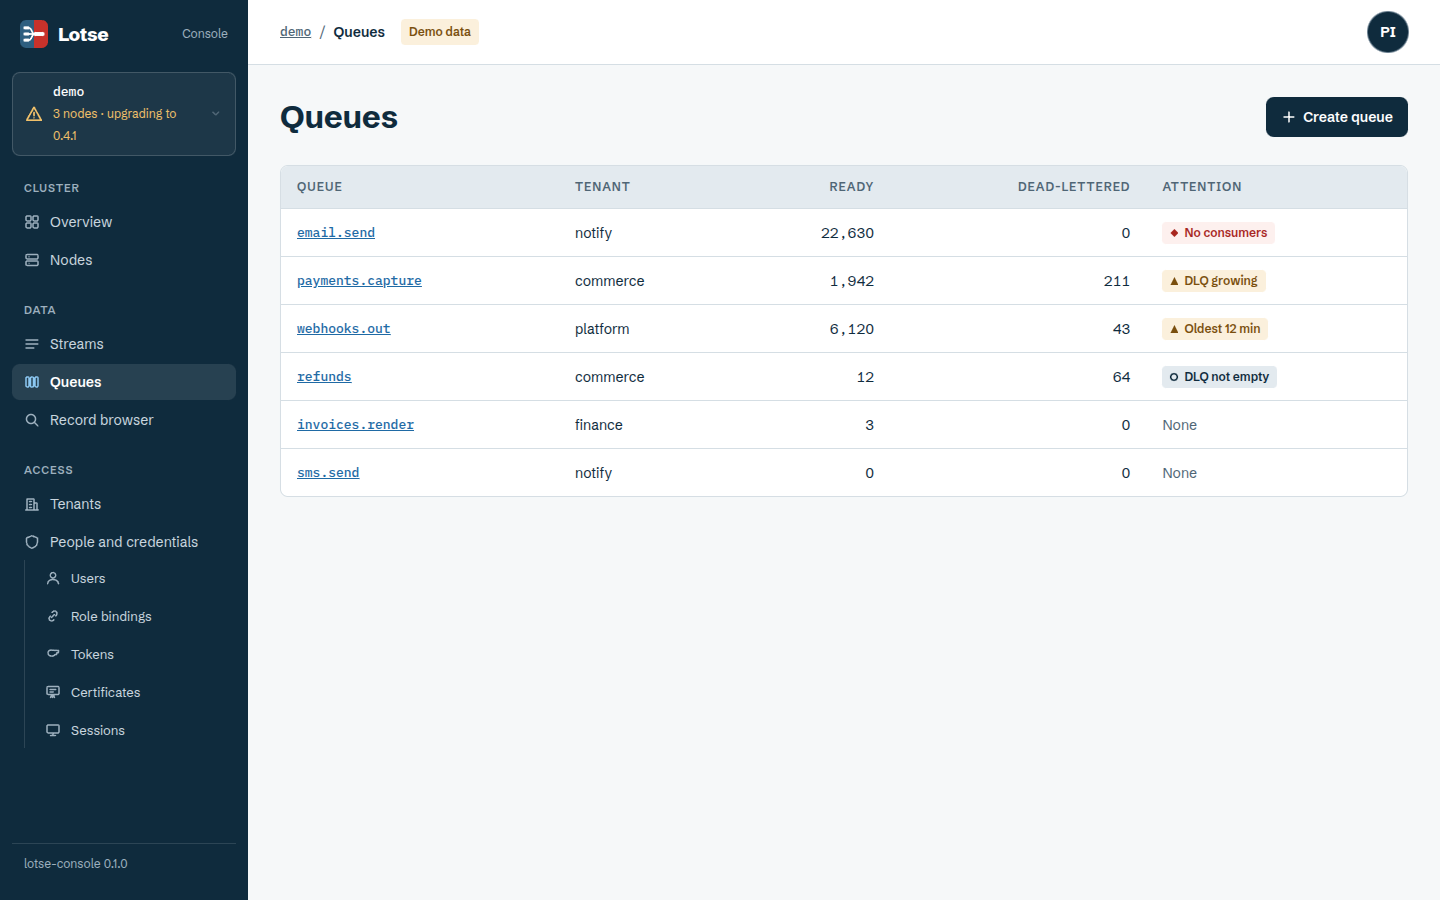
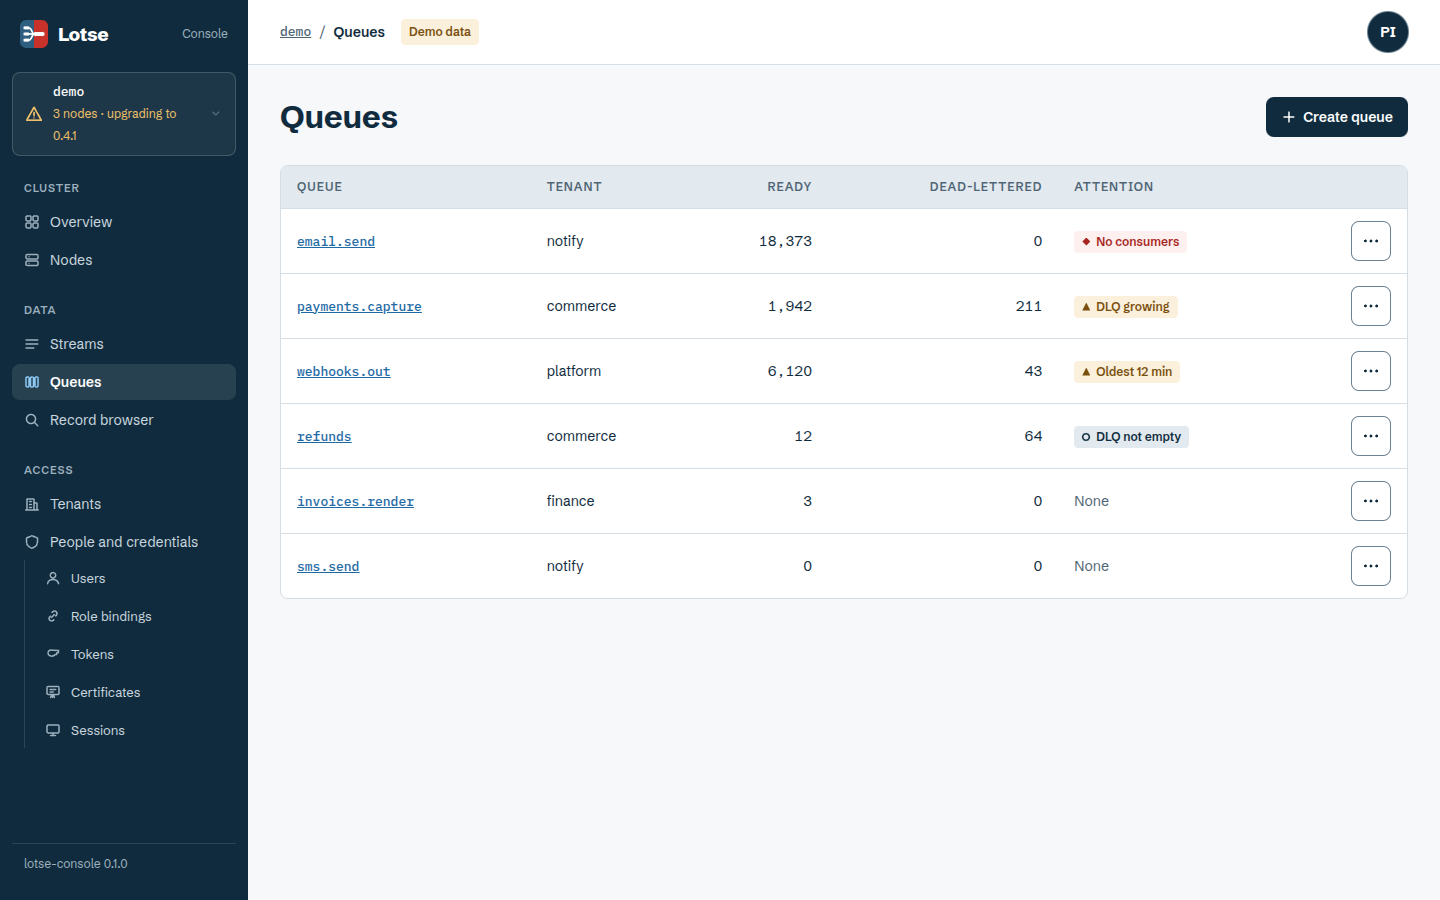
Add More to console cards, row menus to the lists, and draft 0.1.1 notes
Cards show a row's name and two more cells and keep the rest behind a More
button, so a phone sees what matters first and loses nothing; cells with
something to press always stay. Streams and queues get a row menu (open,
read records; open, purge with its typed-name confirmation).

docs/releases/0.1.1.md describes the console release these changes make.
The version itself is not raised here: Cargo.toml, Cargo.lock and the chart
change together with the tag (ADR 0138). AGENTS.md names how the console's
look and tables are built.

diff --git a/console/web/src/pages/Queues.tsx b/console/web/src/pages/Queues.tsx
@@ -1,9 +1,31 @@
-import { Link, useParams } from 'react-router-dom';
+import { useRef, useState } from 'react';
+import { Link, useNavigate, useParams } from 'react-router-dom';
 import { useQueue, useQueues } from '../api/queries';
-import { MoveLeaderButton, PlaceButton, PurgeButton, ReplicationButton, RequeueButton } from '../components/Actions';
+import { MoveLeaderButton, PlaceButton, PurgeButton, PurgeDialog, ReplicationButton, RequeueButton } from '../components/Actions';
+import { RowMenu } from '../components/RowMenu';
 import { CreateQueueDialog } from '../components/CreateQueueDialog';
 import { Bar, Chip, Failed, Loading, Stats, TableWrap } from '../components/ui';
 import { NONE, bytes, clock, count, duration } from '../format';
+
+/** The "…" menu of a queue row: open it, or purge it (which asks for its name first). */
+function QueueRowMenu({ cluster, name, ready }: { cluster: string; name: string; ready: number }) {
+  const navigate = useNavigate();
+  const menu = useRef<HTMLButtonElement>(null);
+  const [asking, setAsking] = useState(false);
+  return (
+    <>
+      <RowMenu
+        triggerRef={menu}
+        label={`Actions for ${name}`}
+        actions={[
+          { label: 'Open queue', onSelect: () => navigate(`/clusters/${encodeURIComponent(cluster)}/queues/${encodeURIComponent(name)}`) },
+          { label: 'Purge queue', danger: true, onSelect: () => setAsking(true) },
+        ]}
+      />
+      <PurgeDialog cluster={cluster} queue={name} ready={ready} open={asking} onOpenChange={setAsking} returnFocus={menu} />
+    </>
+  );
+}
 
 export function QueueList() {
   const { cluster = '' } = useParams();
@@ -31,6 +53,7 @@ export function QueueList() {
                 <th scope="col" className="r">Ready</th>
                 <th scope="col" className="r">Dead-lettered</th>
                 <th scope="col">Attention</th>
+                <th scope="col"><span className="sr-only">Actions</span></th>
               </tr>
             </thead>
             <tbody>
@@ -41,6 +64,7 @@ export function QueueList() {
                   <td className="r">{count(r.ready)}</td>
                   <td className="r">{count(r.dead_lettered)}</td>
                   <td>{r.attention ? <Chip chip={r.attention} /> : <span className="muted">None</span>}</td>
+                  <td className="r"><QueueRowMenu cluster={cluster} name={r.name} ready={r.ready} /></td>
                 </tr>
               ))}
             </tbody>

diff --git a/console/web/src/components/Actions.tsx b/console/web/src/components/Actions.tsx
@@ -1,4 +1,4 @@
-import { useState } from 'react';
+import { useState, type ReactNode, type RefObject } from 'react';
 import * as AlertDialog from '@radix-ui/react-alert-dialog';
 import { ApiError } from '../api/client';
 import { useMoveLeader, useNodes, usePlacePartition, usePurgeQueue, useRequeue, useSetReplication } from '../api/queries';
@@ -7,13 +7,32 @@ import { useToast } from './toast';
 
 const narrow = { width: 'min(480px, calc(100vw - 32px))' };
 
-/** Purge: destructive, so the queue's name is typed again before it can run (ADR 0064). */
-export function PurgeButton({ cluster, queue, ready }: { cluster: string; queue: string; ready: number }) {
+/** The purge confirmation, opened by its caller (a row menu) or by PurgeButton: the queue's name is typed again (ADR 0064). */
+export function PurgeDialog({
+  cluster,
+  queue,
+  ready,
+  open,
+  onOpenChange,
+  trigger,
+  returnFocus,
+}: {
+  cluster: string;
+  queue: string;
+  ready: number;
+  open?: boolean;
+  onOpenChange?: (open: boolean) => void;
+  trigger?: ReactNode;
+  returnFocus?: RefObject<HTMLElement | null>;
+}) {
   const purge = usePurgeQueue(cluster, queue);
   const toast = useToast();
   return (
     <ConfirmDialog
-      trigger={<AlertDialog.Trigger className="btn">Purge</AlertDialog.Trigger>}
+      open={open}
+      onOpenChange={onOpenChange}
+      trigger={trigger}
+      returnFocus={returnFocus}
       title={`Purge ${queue}?`}
       body={`Deletes the ${ready.toLocaleString('en-US')} messages that are ready now. Messages that consumers hold are not deleted, and messages published meanwhile stay. This cannot be undone.`}
       name={queue}
@@ -29,6 +48,11 @@ export function PurgeButton({ cluster, queue, ready }: { cluster: string; queue:
       }
     />
   );
+}
+
+/** Purge, with its own button (on the queue's page). */
+export function PurgeButton({ cluster, queue, ready }: { cluster: string; queue: string; ready: number }) {
+  return <PurgeDialog cluster={cluster} queue={queue} ready={ready} trigger={<AlertDialog.Trigger className="btn">Purge</AlertDialog.Trigger>} />;
 }
 
 /** Requeue: moves a dead-letter queue's messages back to the queues they came from, once each. */

diff --git a/console/web/src/components/ui.test.tsx b/console/web/src/components/ui.test.tsx
@@ -35,7 +35,57 @@ function phone(matches: boolean) {
   vi.stubGlobal('matchMedia', () => ({ matches, addEventListener: () => undefined, removeEventListener: () => undefined }));
 }
 
+const wide = (
+  <TableWrap label="Queues">
+    <table>
+      <thead>
+        <tr>
+          <th scope="col">Queue</th>
+          <th scope="col">Tenant</th>
+          <th scope="col">Ready</th>
+          <th scope="col">Dead letters</th>
+          <th scope="col">Why</th>
+          <th scope="col">
+            <span className="sr-only">Actions</span>
+          </th>
+        </tr>
+      </thead>
+      <tbody>
+        <tr>
+          <th scope="row">orders</th>
+          <td>commerce</td>
+          <td>12</td>
+          <td>0</td>
+          <td>None</td>
+          <td>
+            <button type="button">Actions for orders</button>
+          </td>
+        </tr>
+      </tbody>
+    </table>
+  </TableWrap>
+);
+
 describe('TableWrap', () => {
+  it('puts the cells after the third behind More on a phone, and keeps what can be pressed', async () => {
+    phone(true);
+    const { container } = render(wide);
+    const row = container.querySelector('tbody tr')!;
+    const extra = Array.from(row.children).filter((c) => c.hasAttribute('data-extra')).map((c) => c.getAttribute('data-label'));
+    expect(extra).toEqual(['Dead letters', 'Why']);
+    const more = screen.getByRole('button', { name: 'More' });
+    expect(more.getAttribute('aria-expanded')).toBe('false');
+    more.click();
+    expect(row.hasAttribute('data-open')).toBe(true);
+    expect(screen.getByRole('button', { name: 'Fewer' }).getAttribute('aria-expanded')).toBe('true');
+  });
+
+  it('has no More on a wide screen', () => {
+    phone(false);
+    const { container } = render(wide);
+    expect(container.querySelector('.morec')).toBeNull();
+  });
+
   it('turns rows into cards on a phone, naming each cell by its column and keeping the table roles', () => {
     phone(true);
     const { container } = render(table);

diff --git a/console/web/src/pages/Streams.tsx b/console/web/src/pages/Streams.tsx
@@ -1,13 +1,15 @@
 import * as Tabs from '@radix-ui/react-tabs';
-import { Link, useParams } from 'react-router-dom';
+import { Link, useNavigate, useParams } from 'react-router-dom';
 import type { S } from '../api/client';
 import { useStream, useStreams } from '../api/queries';
 import { MoveLeaderButton, PlaceButton, ReplicationButton } from '../components/Actions';
+import { RowMenu } from '../components/RowMenu';
 import { Chip, Failed, Hint, Loading, Sparkline, Stats, TableWrap } from '../components/ui';
 import { NONE, bytes, count, counted, duration, rate } from '../format';
 
 export function StreamList() {
   const { cluster = '' } = useParams();
+  const navigate = useNavigate();
   const q = useStreams(cluster);
   const base = `/clusters/${encodeURIComponent(cluster)}`;
   return (
@@ -29,6 +31,7 @@ export function StreamList() {
                 <th scope="col" className="r">Partitions</th>
                 <th scope="col" className="r">In</th>
                 <th scope="col" className="r">Stored</th>
+                <th scope="col"><span className="sr-only">Actions</span></th>
               </tr>
             </thead>
             <tbody>
@@ -39,6 +42,15 @@ export function StreamList() {
                   <td className="r">{s.partitions}</td>
                   <td className="r">{rate(s.in_bytes_per_sec)}</td>
                   <td className="r">{bytes(s.stored_bytes)}</td>
+                  <td className="r">
+                    <RowMenu
+                      label={`Actions for ${s.name}`}
+                      actions={[
+                        { label: 'Open stream', onSelect: () => navigate(`${base}/streams/${encodeURIComponent(s.name)}`) },
+                        { label: 'Read records', onSelect: () => navigate(`${base}/messages?stream=${encodeURIComponent(s.name)}`) },
+                      ]}
+                    />
+                  </td>
                 </tr>
               ))}
             </tbody>

diff --git a/console/web/src/components/ui.tsx b/console/web/src/components/ui.tsx
@@ -282,7 +282,34 @@ export function TableWrap({ label, style, children }: { label?: string; style?: 
           }
         }
         table.querySelectorAll('tbody tr').forEach((tr) => {
-          Array.from(tr.children).forEach((c, i) => c.setAttribute('data-label', heads[i] ?? ''));
+          const cells = Array.from(tr.children).filter((c) => !c.classList.contains('morec'));
+          cells.forEach((c, i) => c.setAttribute('data-label', heads[i] ?? ''));
+          // A card shows its name and two more cells; the rest waits behind "More". Cells with something to press stay.
+          const extra = cells.filter((c, i) => i >= 3 && !c.querySelector('button, a, input, select'));
+          cells.forEach((c) => (extra.includes(c) ? c.setAttribute('data-extra', '') : c.removeAttribute('data-extra')));
+          let more = tr.querySelector<HTMLElement>(':scope > .morec');
+          if (cards && extra.length > 0 && cells.length > 1 && cells[0]?.tagName !== 'TD') {
+            if (!more) {
+              more = document.createElement('td');
+              more.className = 'morec';
+              more.setAttribute('role', 'cell');
+              const b = document.createElement('button');
+              b.type = 'button';
+              b.className = 'btn small';
+              b.setAttribute('aria-expanded', 'false');
+              b.textContent = 'More';
+              b.addEventListener('click', () => {
+                const open = tr.toggleAttribute('data-open');
+                b.setAttribute('aria-expanded', String(open));
+                b.textContent = open ? 'Fewer' : 'More';
+              });
+              more.append(b);
+              tr.append(more);
+            }
+          } else if (more) {
+            more.remove();
+            tr.removeAttribute('data-open');
+          }
         });
       }
       const scrolls = !(mq?.matches ?? false) && el.scrollWidth > el.clientWidth + 1;

diff --git a/console/web/src/styles.css b/console/web/src/styles.css
@@ -396,6 +396,9 @@ pre.value { margin: 0; padding: 14px 16px; overflow-x: auto; border-radius: var(
   table.cards tbody tr > :first-child { justify-content: flex-start; font-weight: 600; text-align: left; box-shadow: none; }
   table.cards tbody tr > *::before { content: attr(data-label); flex: 0 0 auto; color: var(--ink-muted); font-size: 12px; font-weight: 600; letter-spacing: 0.08em; text-transform: uppercase; text-align: left; }
   table.cards tbody tr > :first-child::before, table.cards tbody tr > [data-label='']::before { display: none; }
+  table.cards tbody tr:not([data-open]) > [data-extra] { display: none; }
+  table.cards tbody tr > .morec { justify-content: flex-start; padding-top: 8px; }
+  table.cards tbody tr > .morec::before { display: none; }
   .app { grid-template-columns: minmax(0, 1fr); }
   .demo-pill, .live { display: none; }
   .demo-strip { display: block; padding: 6px 16px; background: var(--warn-bg); color: var(--warn-text); font-size: 13px; font-weight: 600; }

diff --git a/AGENTS.md b/AGENTS.md
@@ -27,7 +27,7 @@ A message broker in Rust: RabbitMQ-style reliable queues and Kafka-style persist
 | `crates/lotse-console` | Management console backend (axum), serves `console/web`; `cluster/native.rs` a real cluster through `lotse-client`, `cluster/demo.rs` sample data; `auth.rs` sign-in (OIDC, dev mode, the sampler's client credentials), users, role bindings and session revocation as the signed-in user (`api.rs`, `cluster/*`; the browser derives the SCRAM credential in `console/web/src/scramCredential.ts`, [ADR 0089](docs/adr/0089-console-users-and-access.md)), `auth/sealed.rs` sessions sealed into the cookie, `metrics.rs` chart history per resource; `config.rs` the console's file (`[https]`: plain HTTP only on loopback, ADR 0137); `examples/local_cluster.rs` three nodes on localhost with the console; `tests/native.rs` the console against real nodes, `tests/https.rs` the executable serving HTTPS and refusing plain HTTP off loopback, `tests/sign_in.rs` signing in against a node that requires authentication, `tests/tokens.rs` access tokens made, listed and revoked as the signed-in user (ADR 0133; the text only in the answer that creates one) |
 | `packaging/` | `release.sh` (the reproducible release of `lotse` and `lotse-console`: static binaries, tarballs, `.deb`, `.rpm`, `.apk`, `BUILDINFO`, `SHA256SUMS`; `--verify` checks a published one), `release.env` (the pinned tools, Node.js for the console's web app), `tools.sh` (installs them), `tarball.py`, `nfpm.yaml` and `nfpm-console.yaml` (the packages), `image.sh`, `Dockerfile.prebuilt` and `Dockerfile.console.prebuilt` (the reproducible release images), `Dockerfile` and `Dockerfile.console` (static builds on distroless from source), `lotse-console.toml.example` (the packaged console's config, ADR 0137), `systemd/`, `openrc/`, `sysvinit/` (init scripts), `deb/`, `rpm/`, `apk/` (package scripts), `cluster.toml.example`, `tarball/INSTALL.md`, `restart-on-upgrade.sh` (restarts a machine's nodes after an upgrade, each with the restart turn, ADR 0127), `helm/lotse` (the Helm chart, [ADR 0128](docs/adr/0128-a-helm-chart-whose-pods-take-the-restart-turn.md)), `ci/` (installing and starting the packages in containers, `console-*.sh` the console's, `helm.sh` the chart with the console on kind, [ADR 0126](docs/adr/0126-reproducible-releases-built-by-one-script-for-every-init-system.md)); `.github/workflows/release.yml` builds releases on `v*` tags |
 | `sdk/` | Client SDKs ([ADR 0056](docs/adr/0056-client-sdks-for-the-jvm.md)): `PROTOCOL.md` the protocol for implementers, `conformance/` golden vectors written by `crates/lotse-proto/examples/vectors.rs` (never edit by hand: `make sdk-vectors`), `java/` the Java 17 client (Gradle, no runtime dependencies but the optional codecs; `dev.lotse.proto`, `record`, `net`, `auth` and `client`: streams, queues, publishing, transactions, consumer groups and admin), `kotlin/` the Kotlin layer on it (`dev.lotse.kotlin`: `suspend` on `Dispatchers.IO`, flows, `transaction { }`; [ADR 0080](docs/adr/0080-kotlin-layer-on-dispatchers-io.md)), `csharp/` the C# client (.NET 10, `Lotse.sln`; `Lotse.Proto`, `Lotse.Record`, `Lotse.Net`, `Lotse.Auth` and `Lotse.Client`, the optional `Lotse.Client.Codecs` package; [ADR 0083](docs/adr/0083-client-sdks-for-csharp-and-nodejs.md), [ADR 0084](docs/adr/0084-codecs-in-the-csharp-sdk.md)), `node/` the Node.js client (TypeScript, Node.js 20+, no runtime dependencies; `src/proto`, `record`, `net`, `auth` and `client`; [ADR 0083](docs/adr/0083-client-sdks-for-csharp-and-nodejs.md), [ADR 0085](docs/adr/0085-codecs-in-the-nodejs-sdk.md)) |
-| `console/web` | Console frontend: React 19, TypeScript, Radix primitives, TanStack Query, generated OpenAPI client |
+| `console/web` | Console frontend: React 19, TypeScript, Radix primitives, TanStack Query, generated OpenAPI client; its look and behaviour follow the mockups in `docs/console/mockups/v2/` and [ADR 0140](docs/adr/0140-the-console-has-a-navy-primary-action-and-red-only-for-danger.md): navy primary, red only for danger, one `ConfirmDialog` for anything destructive, `TableWrap` for every table (cards on a phone), nested People and credentials pages |
 | `docs/` | Design document, ADRs, architecture, brand, console screenshots and mockups; `status.md` (status and known gaps), `running.md` (running a cluster in short), `crates.md`, `testing.md` (the simulations and what they catch), `console/README.md` (screenshots, running the console, frontend work); `releases/<version>.md` each release's notes, which the release workflow requires and puts at the top of the GitHub release ([ADR 0138](docs/adr/0138-every-release-has-its-notes-and-version-tagged-images.md)); `docs/guide/` the setup, administration, development and use guides (mdBook, published on GitHub Pages by `.github/workflows/docs.yml`; [ADR 0081](docs/adr/0081-user-guides-with-mdbook-on-github-pages.md)) |
 | `agents/` | Tool-neutral descriptions of the project's coding agents |
 

diff --git a/docs/releases/0.1.1.md b/docs/releases/0.1.1.md
@@ -1,0 +1,28 @@
+# Lotse 0.1.1
+
+A release of the management console and nothing else: the brokers, their formats and the cluster version are as in 0.1.0, so a cluster upgrades by replacing `lotse-console` alone.
+
+## What changed
+
+- **A calmer, more accessible console.** The primary action is navy and red means danger or an error; the focus ring is never red; inputs, selects and switches have borders that meet 3:1 in light and dark ([ADR 0140](https://github.com/pierrejochem/lotse/blob/main/docs/adr/0140-the-console-has-a-navy-primary-action-and-red-only-for-danger.md)).
+- **A shell that fits every width.** A sidebar on wide screens, an icon rail with tooltips on tablets, a bar and a menu on phones. A skip link, a page title for every route, and focus on the page heading after you navigate.
+- **People and credentials.** Users, role bindings, tokens, certificates and sessions are separate pages with their own addresses, listed in the sidebar. The page names changed: *Tenants and access* is *Tenants*, *Users and access* is *People and credentials*, the message browser is the *Record browser*.
+- **Tables that work on a phone.** On a narrow screen each row is a card with its columns named, and the less important ones wait behind *More*. Wider tables scroll in a region you can reach with the keyboard. A selected row shows a bar and the word *Selected*; states differ by shape and word, not by colour alone.
+- **Safer confirmations.** Deleting a user, revoking a token, a certificate or sessions, and purging a queue go through one dialog: focus starts on the safe choice, you type the name, and the text says what happens and how to get back. It refuses to delete the only cluster admin. Rows with several actions have a *…* menu; the one solid red button is the confirmation in the dialog.
+- **Record browser.** *Oldest*, *Older*, *Newer* and *Latest* page through a partition; the switch *Show uncommitted records* says what Off means; a record's value shows as text or as a hex dump.
+- **Overview chart.** The second series is dashed with a square marker, the text alternative gives the range of each series, and *Show data table* lists the samples.
+- **Clearer words.** Nodes, Partitions, Requested, units in column headings, error messages that say what to do, and an empty list that says what to do next. The guide and the screenshots follow.
+- **Fixes.** The record browser no longer asks for a stream with an empty name before its list has arrived. The footer shows the real version.
+
+## What you get
+
+As in [0.1.0](0.1.0.md): `lotse-console` as a static binary, a tarball, a `.deb`, an `.rpm`, an `.apk` and the image `ghcr.io/pierrejochem/lotse-console`, for x86_64 and aarch64 Linux, built twice and published only when both builds match.
+
+## Not in this release
+
+- A screen reader pass: the console was checked against WCAG 2.2 AA by reading its code and by browser checks, not with NVDA, JAWS or VoiceOver.
+- Dark mode was checked on the main pages and the dialogs, not on every page.
+
+## Upgrades and compatibility
+
+No change to any format or request. Replace `lotse-console`; the nodes need no restart.
